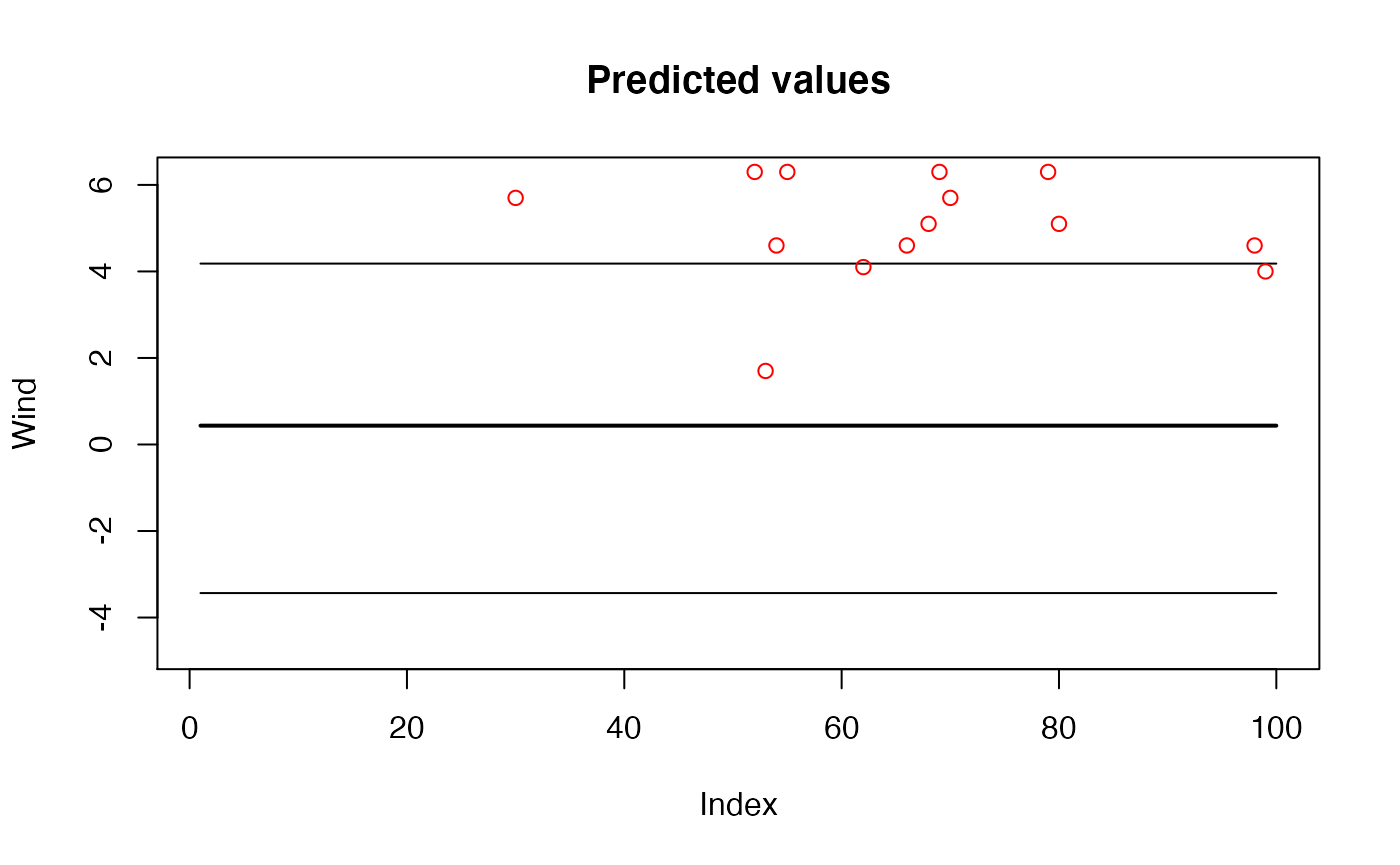
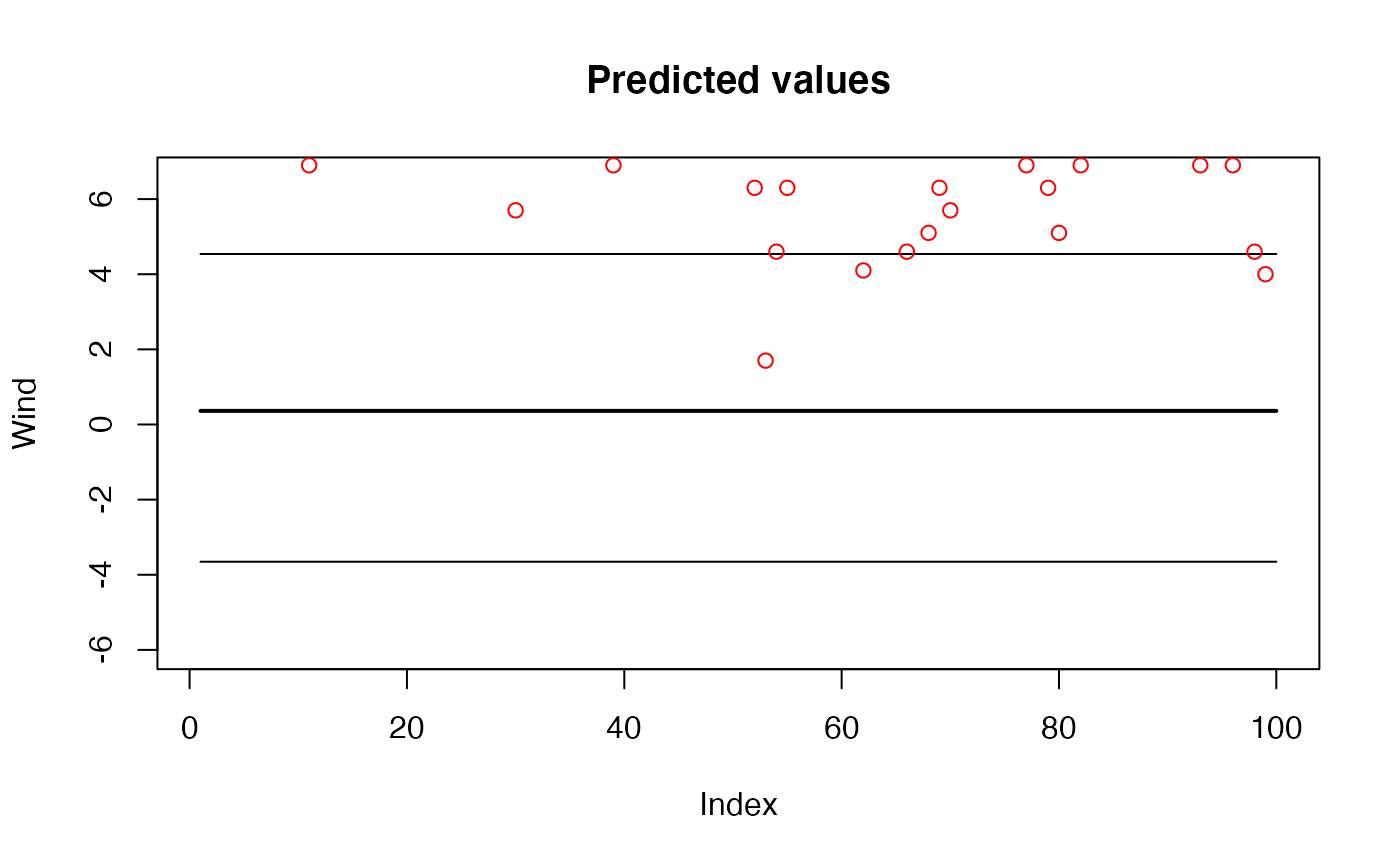
docs

diff --git a/docs/articles/fit_stan.html b/docs/articles/fit_stan.html
@@ -65,7 +65,7 @@
       </ul>
 <ul class="nav navbar-nav navbar-right">
 <li>
-  <a href="https://github.com/nwfsc-timeseries/atsar/">
+  <a href="https://github.com/atsa-es/atsar/">
     <span class="fab fa-github fa-lg"></span>
      
   </a>
@@ -80,15 +80,15 @@
 
       
 
-      </header><script src="fit_stan_files/accessible-code-block-0.0.1/empty-anchor.js"></script><div class="row">
+      </header><script src="fit_stan_files/header-attrs-2.9/header-attrs.js"></script><div class="row">
   <div class="col-md-9 contents">
     <div class="page-header toc-ignore">
       <h1 data-toc-skip>Fitting time series models in package atsar</h1>
                         <h4 class="author">Eric Ward</h4>
             
-            <h4 class="date">2021-06-17</h4>
+            <h4 class="date">2021-10-04</h4>
       
-      <small class="dont-index">Source: <a href="https://github.com/nwfsc-timeseries/atsar/blob/master/vignettes/fit_stan.Rmd"><code>vignettes/fit_stan.Rmd</code></a></small>
+      <small class="dont-index">Source: <a href="https://github.com/atsa-es/atsar/blob/master/vignettes/fit_stan.Rmd"><code>vignettes/fit_stan.Rmd</code></a></small>
       <div class="hidden name"><code>fit_stan.Rmd</code></div>
 
     </div>
@@ -103,7 +103,7 @@
 <a href="#installing-packages" class="anchor"></a>Installing packages</h2>
 <div class="sourceCode" id="cb1"><pre class="downlit sourceCode r">
 <code class="sourceCode R"><span class="kw"><a href="https://rdrr.io/r/base/library.html">library</a></span><span class="op">(</span><span class="va"><a href="https://mc-stan.org/rstan">rstan</a></span><span class="op">)</span>
-<span class="kw"><a href="https://rdrr.io/r/base/library.html">library</a></span><span class="op">(</span><span class="va"><a href="https://github.com/nwfsc-timeseries/atsar">atsar</a></span><span class="op">)</span>
+<span class="kw"><a href="https://rdrr.io/r/base/library.html">library</a></span><span class="op">(</span><span class="va"><a href="https://atsa-es.github.io/atsar/">atsar</a></span><span class="op">)</span>
 <span class="co"># for optimizing stan on your machine,</span>
 <span class="co">#rstan_options(auto_write = TRUE)</span>
 <span class="co">#options(mc.cores = parallel::detectCores())</span>
@@ -121,7 +121,6 @@
 <div id="linear-regression" class="section level2">
 <h2 class="hasAnchor">
 <a href="#linear-regression" class="anchor"></a>1. Linear regression</h2>
-
 <p>We’ll start with the simplest time series model possible: linear regression with only an intercept, so that the predicted values of all observations are the same. There are several ways we can write this equation. First, the predicted values can be written as <span class="math inline">\(E[{Y}_{t}] = u\)</span>. Assuming that the residuals are normally distributed, the model linking our predictions to observed data is written as <span class="math display">\[Y = u + e_{t}, e_{t} \sim Normal(0,\sigma)\]</span></p>
 <p>An equivalent way to think about this model is that instead of the residuals as normally distributed with mean zero, we can think of the data <span class="math inline">\(Y\)</span> as being normally distributed with a mean of the intercept, and the same residual standard deviation: <span class="math display">\[Y \sim Normal(E[Y_{t}],\sigma)\]</span> Remember that in linear regression models, the residual error is interpreted as independent and identically distributed observation error.</p>
 <p>To run this model using our package, we’ll need to specify the response and predictor variables. The covariate matrix with an intercept only is a matrix of 1s. To double check, you could always look at</p>
@@ -149,7 +148,7 @@
 <div class="sourceCode" id="cb9"><pre class="downlit sourceCode r">
 <code class="sourceCode R"><span class="fu"><a href="https://rdrr.io/r/stats/quantile.html">quantile</a></span><span class="op">(</span><span class="va">pars</span><span class="op">$</span><span class="va">beta</span>, <span class="fu"><a href="https://rdrr.io/r/base/c.html">c</a></span><span class="op">(</span><span class="fl">0.025</span>,<span class="fl">0.5</span>,<span class="fl">0.975</span><span class="op">)</span><span class="op">)</span></code></pre></div>
 <pre><code>##       2.5%        50%      97.5% 
-## -3.4344501  0.4642215  4.1812445</code></pre>
+## -3.6529938  0.2426497  4.5384432</code></pre>
 <p>One of the other useful things we can do is look at the predicted values of our model and overlay the data. The predicted values are <em>pars$pred</em>.</p>
 <div class="sourceCode" id="cb11"><pre class="downlit sourceCode r">
 <code class="sourceCode R"><span class="fu"><a href="https://rdrr.io/r/graphics/plot.default.html">plot</a></span><span class="op">(</span><span class="fu"><a href="https://rdrr.io/r/base/apply.html">apply</a></span><span class="op">(</span><span class="va">pars</span><span class="op">$</span><span class="va">pred</span>, <span class="fl">2</span>, <span class="va">mean</span><span class="op">)</span>, main<span class="op">=</span><span class="st">"Predicted values"</span>, lwd<span class="op">=</span><span class="fl">2</span>, 

diff --git a/docs/index.html b/docs/index.html
@@ -65,7 +65,7 @@
       </ul>
 <ul class="nav navbar-nav navbar-right">
 <li>
-  <a href="https://github.com/nwfsc-timeseries/atsar/">
+  <a href="https://github.com/atsa-es/atsar/">
     <span class="fab fa-github fa-lg"></span>
      
   </a>
@@ -121,14 +121,14 @@
 <p><a href="https://github.com/nwfsc-timeseries/atsar">GitHub</a></p>
 </li>
 </ul>
-<p>The atsar R package implements Bayesian time series models using Stan, primarily for illustrative purposes and teaching (University of Washington’s Fish 507, Winter quarters). The Stan webpage, and appropriate citation guidelines are <a href="http://mc-stan.org/">here</a>.</p>
+<p>The atsar R package implements Bayesian time series models using Stan, primarily for illustrative purposes and teaching (University of Washington’s Fish 550, Winter quarters). The Stan webpage, and appropriate citation guidelines are <a href="http://mc-stan.org/">here</a>.</p>
 <div id="install" class="section level3">
 <h3 class="hasAnchor">
 <a href="#install" class="anchor"></a>INSTALL</h3>
 <p>You can install the development version of the package with:</p>
 <div class="sourceCode" id="cb1"><pre class="downlit sourceCode r">
 <code class="sourceCode R"><span class="co"># install.packages("devtools")</span>
-<span class="fu">devtools</span><span class="fu">::</span><span class="fu"><a href="https://devtools.r-lib.org//reference/remote-reexports.html">install_github</a></span><span class="op">(</span><span class="st">"nwfsc-timeseries/atsar"</span><span class="op">)</span></code></pre></div>
+<span class="fu">devtools</span><span class="fu">::</span><span class="fu"><a href="https://devtools.r-lib.org//reference/remote-reexports.html">install_github</a></span><span class="op">(</span><span class="st">"atsa-es/atsar"</span><span class="op">)</span></code></pre></div>
 </div>
 <div id="example" class="section level3">
 <h3 class="hasAnchor">
@@ -143,7 +143,7 @@
 <span class="co">#&gt; options(mc.cores = parallel::detectCores()).</span>
 <span class="co">#&gt; To avoid recompilation of unchanged Stan programs, we recommend calling</span>
 <span class="co">#&gt; rstan_options(auto_write = TRUE)</span>
-<span class="kw"><a href="https://rdrr.io/r/base/library.html">library</a></span><span class="op">(</span><span class="va"><a href="https://github.com/nwfsc-timeseries/atsar">atsar</a></span><span class="op">)</span>
+<span class="kw"><a href="https://rdrr.io/r/base/library.html">library</a></span><span class="op">(</span><span class="va"><a href="https://atsa-es.github.io/atsar/">atsar</a></span><span class="op">)</span>
 <span class="fu"><a href="https://rdrr.io/r/base/Random.html">set.seed</a></span><span class="op">(</span><span class="fl">123</span><span class="op">)</span>
 <span class="va">s</span> <span class="op">=</span> <span class="fu"><a href="https://rdrr.io/r/base/cumsum.html">cumsum</a></span><span class="op">(</span><span class="fu"><a href="https://rdrr.io/r/stats/Normal.html">rnorm</a></span><span class="op">(</span><span class="fl">50</span><span class="op">)</span><span class="op">)</span></code></pre></div>
 <div class="sourceCode" id="cb3"><pre class="downlit sourceCode r">
@@ -172,10 +172,10 @@
 <a href="#documentation" class="anchor"></a>DOCUMENTATION</h3>
 <ul>
 <li>
-<a href="https://nwfsc-timeseries.github.io/atsa-labs/">ATSA lab book</a> - Many applications are covered in our Applied Time Series Analysis book developed from the labs in our course.</li>
+<a href="https://atsa-es.github.io/atsa-labs/">ATSA lab book</a> - Many applications are covered in our Applied Time Series Analysis book developed from the labs in our course.</li>
 <li>
-<a href="https://nwfsc-timeseries.github.io/atsa/">ATSA course website</a> - We have lectures and all material from our course on our course website.</li>
-<li>Additional information can be found on the NWFSC time series page which includes several additional books and packages, <a href="https://nwfsc-timeseries.github.io/">NWFSC time series page</a>
+<a href="https://atsa-es.github.io/atsa/">ATSA course website</a> - We have lectures and all material from our course on our course website.</li>
+<li>Additional information can be found on the NWFSC time series page which includes several additional books and packages, <a href="https://atsa-es.github.io/">NWFSC time series page</a>
 </li>
 </ul>
 </div>
@@ -196,9 +196,9 @@
     <div class="links">
 <h2>Links</h2>
 <ul class="list-unstyled">
-<li>Browse source code at <br><a href="https://github.com/nwfsc-timeseries/atsar/">https://github.com/nwfsc-timeseries/atsar/</a>
+<li>Browse source code at <br><a href="https://github.com/atsa-es/atsar/">https://github.com/atsa-es/atsar/</a>
 </li>
-<li>Report a bug at <br><a href="https://github.com/nwfsc-timeseries/atsar/issues">https://github.com/nwfsc-timeseries/atsar/issues</a>
+<li>Report a bug at <br><a href="https://github.com/atsa-es/atsar/issues">https://github.com/atsa-es/atsar/issues</a>
 </li>
 </ul>
 </div>

diff --git a/docs/articles/dlm.html b/docs/articles/dlm.html
@@ -65,7 +65,7 @@
       </ul>
 <ul class="nav navbar-nav navbar-right">
 <li>
-  <a href="https://github.com/nwfsc-timeseries/atsar/">
+  <a href="https://github.com/atsa-es/atsar/">
     <span class="fab fa-github fa-lg"></span>
      
   </a>
@@ -80,15 +80,15 @@
 
       
 
-      </header><script src="dlm_files/accessible-code-block-0.0.1/empty-anchor.js"></script><div class="row">
+      </header><script src="dlm_files/header-attrs-2.9/header-attrs.js"></script><div class="row">
   <div class="col-md-9 contents">
     <div class="page-header toc-ignore">
       <h1 data-toc-skip>Dynamic linear models in package atsar</h1>
                         <h4 class="author">Eric Ward</h4>
             
-            <h4 class="date">2021-06-17</h4>
+            <h4 class="date">2021-10-04</h4>
       
-      <small class="dont-index">Source: <a href="https://github.com/nwfsc-timeseries/atsar/blob/master/vignettes/dlm.Rmd"><code>vignettes/dlm.Rmd</code></a></small>
+      <small class="dont-index">Source: <a href="https://github.com/atsa-es/atsar/blob/master/vignettes/dlm.Rmd"><code>vignettes/dlm.Rmd</code></a></small>
       <div class="hidden name"><code>dlm.Rmd</code></div>
 
     </div>
@@ -100,7 +100,7 @@
 <a href="#installation" class="anchor"></a>Installation</h2>
 <div class="sourceCode" id="cb1"><pre class="downlit sourceCode r">
 <code class="sourceCode R"><span class="kw"><a href="https://rdrr.io/r/base/library.html">library</a></span><span class="op">(</span><span class="va"><a href="https://mc-stan.org/rstan">rstan</a></span><span class="op">)</span>
-<span class="kw"><a href="https://rdrr.io/r/base/library.html">library</a></span><span class="op">(</span><span class="va"><a href="https://github.com/nwfsc-timeseries/atsar">atsar</a></span><span class="op">)</span>
+<span class="kw"><a href="https://rdrr.io/r/base/library.html">library</a></span><span class="op">(</span><span class="va"><a href="https://atsa-es.github.io/atsar/">atsar</a></span><span class="op">)</span>
 
 <span class="co"># for optimizing stan on your machine,</span>
 <span class="co">#rstan_options(auto_write = TRUE)</span>
@@ -153,7 +153,6 @@
   family<span class="op">=</span><span class="st">"poisson"</span>,
   mcmc_list<span class="op">=</span><span class="va">mcmc_list</span><span class="op">)</span></code></pre></div>
 <p>This more flexible model captures the data much better. Note: the credible intervals are on the mean, not new data.</p>
-
 <div class="sourceCode" id="cb9"><pre class="downlit sourceCode r">
 <code class="sourceCode R"><span class="va">pars</span> <span class="op">=</span> <span class="fu"><a href="https://mc-stan.org/rstan/reference/stanfit-method-extract.html">extract</a></span><span class="op">(</span><span class="va">mod</span><span class="op">)</span>
 <span class="fu"><a href="https://rdrr.io/r/graphics/plot.default.html">plot</a></span><span class="op">(</span><span class="fu"><a href="https://rdrr.io/r/base/apply.html">apply</a></span><span class="op">(</span><span class="fu"><a href="https://rdrr.io/r/base/Log.html">exp</a></span><span class="op">(</span><span class="va">pars</span><span class="op">$</span><span class="va">intercept</span><span class="op">)</span>, <span class="fl">2</span>, <span class="va">mean</span><span class="op">)</span>, type<span class="op">=</span><span class="st">"l"</span>, lwd<span class="op">=</span><span class="fl">3</span>, ylim<span class="op">=</span><span class="fu"><a href="https://rdrr.io/r/base/c.html">c</a></span><span class="op">(</span><span class="fl">0</span>,<span class="fl">100</span><span class="op">)</span>, ylab<span class="op">=</span><span class="st">"E coli"</span>, xlab<span class="op">=</span><span class="st">""</span><span class="op">)</span>

diff --git a/docs/reference/fit_stan.html b/docs/reference/fit_stan.html
@@ -107,7 +107,7 @@
       </ul>
       <ul class="nav navbar-nav navbar-right">
         <li>
-  <a href="https://github.com/nwfsc-timeseries/atsar/">
+  <a href="https://github.com/atsa-es/atsar/">
     <span class="fab fa-github fa-lg"></span>
      
   </a>
@@ -126,7 +126,7 @@
   <div class="col-md-9 contents">
     <div class="page-header">
     <h1>fit_stan is the primary function which calls pre-written stan scripts for time series data.</h1>
-    <small class="dont-index">Source: <a href='https://github.com/nwfsc-timeseries/atsar/blob/master/R/fit_stan.R'><code>R/fit_stan.R</code></a></small>
+    <small class="dont-index">Source: <a href='https://github.com/atsa-es/atsar/blob/master/R/fit_stan.R'><code>R/fit_stan.R</code></a></small>
     <div class="hidden name"><code>fit_stan.Rd</code></div>
     </div>
 

diff --git a/docs/reference/atsar-package.html b/docs/reference/atsar-package.html
@@ -107,7 +107,7 @@
       </ul>
       <ul class="nav navbar-nav navbar-right">
         <li>
-  <a href="https://github.com/nwfsc-timeseries/atsar/">
+  <a href="https://github.com/atsa-es/atsar/">
     <span class="fab fa-github fa-lg"></span>
      
   </a>
@@ -126,7 +126,7 @@
   <div class="col-md-9 contents">
     <div class="page-header">
     <h1>The 'atsar' package.</h1>
-    <small class="dont-index">Source: <a href='https://github.com/nwfsc-timeseries/atsar/blob/master/R/atsar-package.R'><code>R/atsar-package.R</code></a></small>
+    <small class="dont-index">Source: <a href='https://github.com/atsa-es/atsar/blob/master/R/atsar-package.R'><code>R/atsar-package.R</code></a></small>
     <div class="hidden name"><code>atsar-package.Rd</code></div>
     </div>
 

diff --git a/docs/articles/dlm_files/header-attrs-2.9/header-attrs.js b/docs/articles/dlm_files/header-attrs-2.9/header-attrs.js
@@ -1,0 +1,12 @@
+// Pandoc 2.9 adds attributes on both header and div. We remove the former (to
+// be compatible with the behavior of Pandoc < 2.8).
+document.addEventListener('DOMContentLoaded', function(e) {
+  var hs = document.querySelectorAll("div.section[class*='level'] > :first-child");
+  var i, h, a;
+  for (i = 0; i < hs.length; i++) {
+    h = hs[i];
+    if (!/^h[1-6]$/i.test(h.tagName)) continue;  // it should be a header h1-h6
+    a = h.attributes;
+    while (a.length > 0) h.removeAttribute(a[0].name);
+  }
+});

diff --git a/docs/articles/fit_stan_files/header-attrs-2.9/header-attrs.js b/docs/articles/fit_stan_files/header-attrs-2.9/header-attrs.js
@@ -1,0 +1,12 @@
+// Pandoc 2.9 adds attributes on both header and div. We remove the former (to
+// be compatible with the behavior of Pandoc < 2.8).
+document.addEventListener('DOMContentLoaded', function(e) {
+  var hs = document.querySelectorAll("div.section[class*='level'] > :first-child");
+  var i, h, a;
+  for (i = 0; i < hs.length; i++) {
+    h = hs[i];
+    if (!/^h[1-6]$/i.test(h.tagName)) continue;  // it should be a header h1-h6
+    a = h.attributes;
+    while (a.length > 0) h.removeAttribute(a[0].name);
+  }
+});

diff --git a/docs/404.html b/docs/404.html
@@ -106,7 +106,7 @@
       </ul>
       <ul class="nav navbar-nav navbar-right">
         <li>
-  <a href="https://github.com/nwfsc-timeseries/atsar/">
+  <a href="https://github.com/atsa-es/atsar/">
     <span class="fab fa-github fa-lg"></span>
      
   </a>

diff --git a/docs/articles/index.html b/docs/articles/index.html
@@ -106,7 +106,7 @@
       </ul>
       <ul class="nav navbar-nav navbar-right">
         <li>
-  <a href="https://github.com/nwfsc-timeseries/atsar/">
+  <a href="https://github.com/atsa-es/atsar/">
     <span class="fab fa-github fa-lg"></span>
      
   </a>

diff --git a/docs/authors.html b/docs/authors.html
@@ -106,7 +106,7 @@
       </ul>
       <ul class="nav navbar-nav navbar-right">
         <li>
-  <a href="https://github.com/nwfsc-timeseries/atsar/">
+  <a href="https://github.com/atsa-es/atsar/">
     <span class="fab fa-github fa-lg"></span>
      
   </a>

diff --git a/docs/reference/index.html b/docs/reference/index.html
@@ -106,7 +106,7 @@
       </ul>
       <ul class="nav navbar-nav navbar-right">
         <li>
-  <a href="https://github.com/nwfsc-timeseries/atsar/">
+  <a href="https://github.com/atsa-es/atsar/">
     <span class="fab fa-github fa-lg"></span>
      
   </a>
